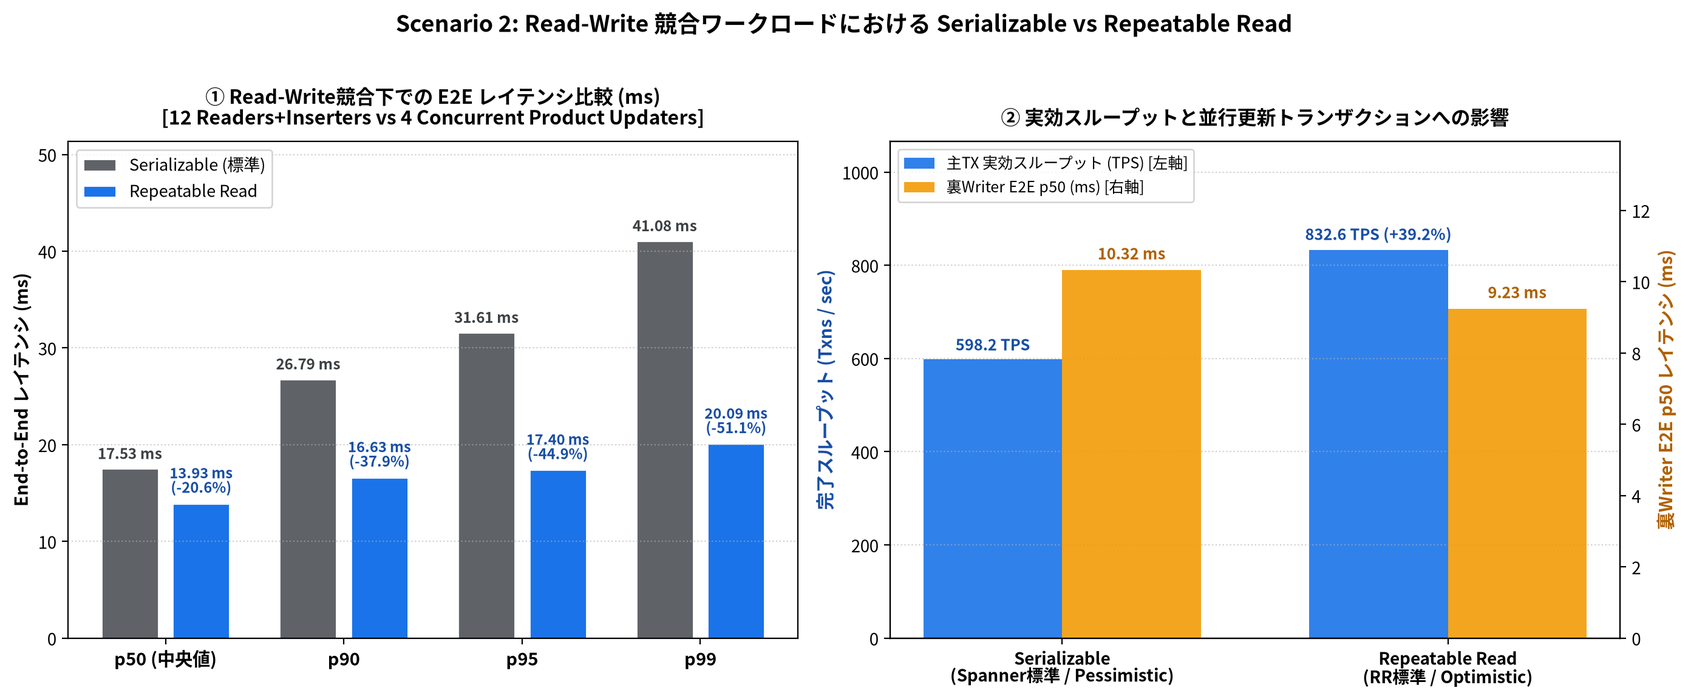
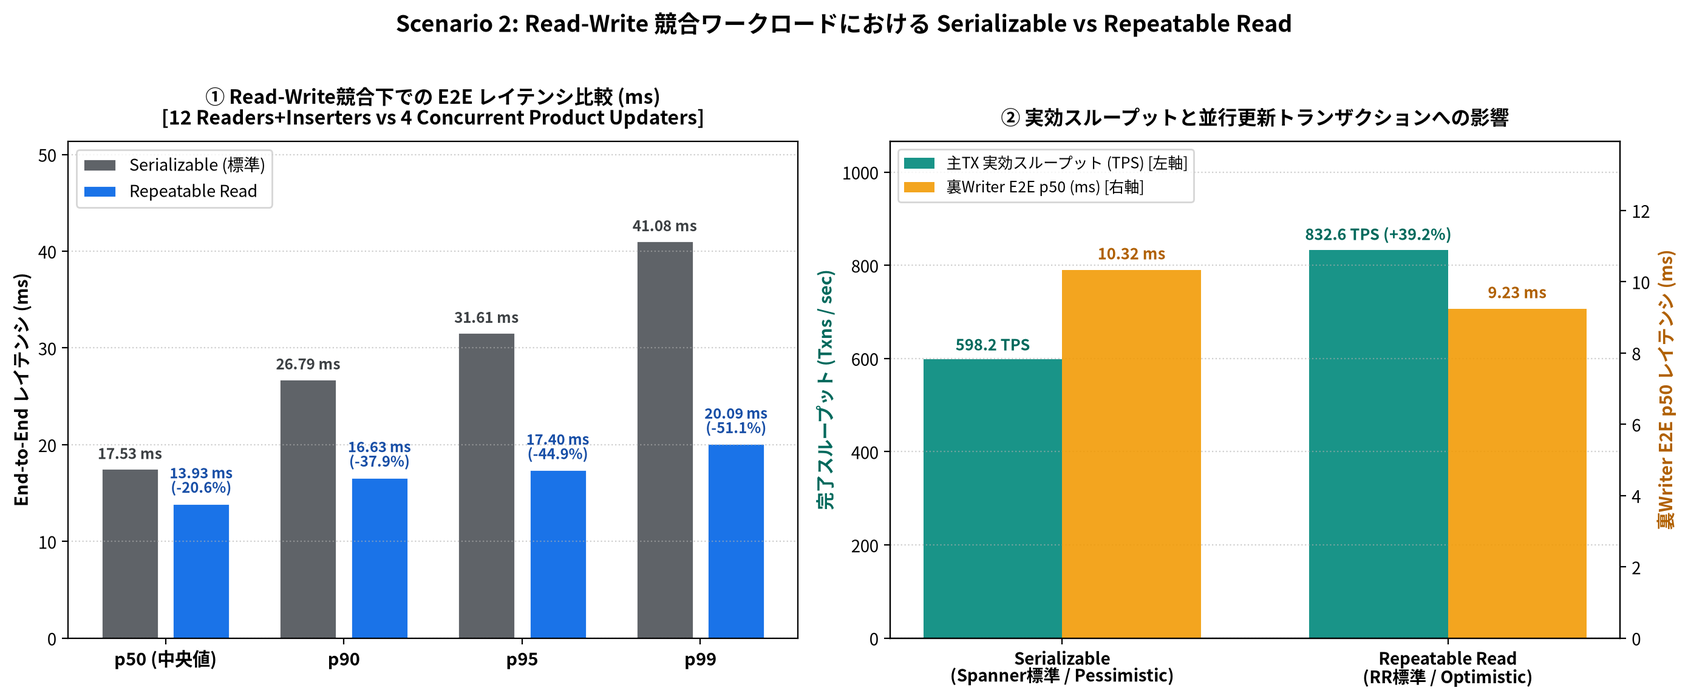
Refactor article structure and Scenario 2 chart colors for readability

diff --git a/articles/b112447edb6af8.md b/articles/b112447edb6af8.md
@@ -29,14 +29,13 @@ Spannerは長らく、Read-Writeトランザクションの分離レベルとし
 
 ## SerializableとRepeatable Readの仕組みの違い
 
-実測結果を見る前に、Spannerにおける`Serializable`と`Repeatable Read`がそれぞれどのようにトランザクションを制御しているのかを整理します。一般的なRDBと同様の概念もありますが、Spanner特有の挙動も存在するため、その差分を中心に解説します。
+実測結果を見る前に、Spannerにおける`Serializable`と`Repeatable Read`の制御方式の違いを整理します。
 
-最初に前提として押さえておきたいのが、Spannerでは**「分離レベル（`Serializable` / `Repeatable Read`）」と「並行性制御のロックモード（PCC / OCC）」は本来独立した設定軸である**という点です。SDK上も別々のオプションとして設定できるため、4通りの組み合わせを構成できます。
-ただし、デフォルトでは`Serializable`にPCC（悲観的並行性制御）、`Repeatable Read`にOCC（楽観的並行性制御）が紐づいています[2]。本稿では、まずそれぞれのデフォルト設定である**「`Serializable`（PCC）」と「`Repeatable Read`（OCC）」のセット**を比較対象として仕組みと特性を解説します（`Serializable + OCC`を選ばない理由については後述します）。
+Spannerのデフォルト設定では、`Serializable`は**PCC（`Pessimistic`）**、`Repeatable Read`は**OCC（`Optimistic`）**で動作します[2]。設定によりロックモードを個別に組み合わせることも可能ですが、本稿ではまずこの標準設定同士を比較します（標準以外の組み合わせについては後半で補足します）。
 
 ### カフェの利用で考えるPCCとOCC
 
-データベースの並行性制御には、大きく分けて**悲観的並行性制御（Pessimistic Concurrency Control、以下、PCC）**と**楽観的並行性制御（Optimistic Concurrency Control、以下、OCC）**の2つのアプローチがあります。Spannerでは、前述の通り標準の`Serializable`はPCC、`Repeatable Read`はOCCがデフォルトの動作として採用されています[2]。
+データベースの並行性制御には、**悲観的並行性制御（PCC / Pessimistic）**と**楽観的並行性制御（OCC / Optimistic）**の2つのアプローチがあります。
 
 この2つの違いを直感的にイメージするため、**一般的なカフェを利用する場面**を想定してみます。カフェでは、空いている時間帯は先に注文してから席を探しますが、混雑時には店員さんから「お席の確保を先にお願いします」とアナウンスされていることが多いと思います。
 
@@ -57,96 +56,76 @@ Spannerは長らく、Read-Writeトランザクションの分離レベルとし
 
 > Repeatable read isolation uses snapshot isolation under the hood. Within a read-write transaction, all reads see a consistent snapshot of the database taken at a single timestamp.
 
-**トランザクション内の通常の`SELECT`クエリーは、ロックを一切取得せず、最初の読み取り（またはクエリー）が実行された時点で確定する「過去の一断面（スナップショット）」を読むだけで完結するイメージです[5]。**
+**トランザクション内の通常の`SELECT`クエリーは、ロックを一切取得せず、最初の読み取りまたはクエリーが実行された時点のスナップショットを読むだけで完結するイメージです[5]。**
 
-標準の`Serializable`（PCC）と`Repeatable Read`（OCC）の具体的な動作の違いを以下の表とシーケンス図にまとめます。
+※厳密なロック・検証の粒度は「セル（行×列）およびスキャン範囲」ですが、以降の解説と図解では分かりやすく行単位で表現します[4]。
 
-| フェーズ | Serializable（Spanner標準 / PCC） | Repeatable Read（RR標準 / OCC） |
+| フェーズ | Serializable（標準 / Pessimistic） | Repeatable Read（標準 / Optimistic） |
 | :--- | :--- | :--- |
-| **1. 通常の`SELECT`実行時** | Paxosリーダー上で対象データに**共有ロック（`ReaderShared`）**を取得する。他トランザクションが書き込みロック（`WriterShared` / `Exclusive`など）を保持している場合は待機する。 | **ロックを取得しない**。スナップショットタイムスタンプのデータをそのまま読み取る。 |
-| **2. トランザクション実行中** | 読み取ったセル（行×列）・スキャン範囲の共有ロックをCommitまで保持し続ける（その間、同じ対象への他トランザクションの更新をブロックする）。 | 読み取りロックを持たないため、他トランザクションが同じセルや範囲を並行して更新しても互いに干渉しない。 |
-| **3. `Commit`実行時** | 保持していた全Readロックが有効か確認し、書き込み対象セルのロック（未読データなら`WriterShared`、既読データなら`Exclusive`への昇格）を取得してPaxos合意を行う。 | 書き込み対象（Write-Set）や`SELECT ... FOR UPDATE` / `LOCK_SCANNED_RANGES=exclusive`で指定した範囲、および制約確認等でDMLが内部的に参照するデータがスナップショット以降に変更されていないかを検証してCommitする。 |
+| **1. 通常の`SELECT`実行時** | Paxosリーダー上で対象データに**共有ロック（`ReaderShared`）**を取得する。他トランザクションが書き込みロック（`WriterShared` / `Exclusive`など）を保持中なら待機する。 | **ロックを取得しない**。スナップショット時点のデータをそのまま読み取る。 |
+| **2. トランザクション実行中** | 読み取ったセル・範囲の共有ロックをCommitまで保持し続ける（同じ対象への他トランザクションの更新をブロックする）。 | 読み取りロックを持たないため、他トランザクションが同じ対象を並行して更新しても互いに干渉しない。 |
+| **3. `Commit`実行時** | 全Readロックが有効か確認し、書き込み対象のロック（未読データなら`WriterShared`、既読データなら`Exclusive`へ昇格）を取得してPaxos合意を行う。 | 書き込み対象（Write-Set）や`SELECT ... FOR UPDATE` / `LOCK_SCANNED_RANGES=exclusive`指定範囲、制約確認等でDMLが内部参照するデータのみ変更有無を検証してCommitする[1][2]。 |
 
-まず、2つのトランザクション（`Tx1`と`Tx2`）が**同じ行Xを読み取って、同じ行Xを更新しようとした場合**（`1. SELECT ... FOR UPDATE` ➔ `2. UPDATE & Commit`）の動きの違いをシーケンス図で比較します。
+本記事の主役である**Read-Write競合**について、具体的な動作をシーケンス図で確認します。
 
-> **※補足**：Spannerの`Serializable`では通常の`SELECT`でもデータ整合性が保証されるため、普段の更新処理で`FOR UPDATE`を付ける必要はありません。ただし、`Serializable`で通常の`SELECT`を使うとRead時点では共有ロック（`ReaderShared`）となるため、`Tx1`と`Tx2`が同時に同じ行を読むと双方が共有ロックを保持したまま排他ロック（`Exclusive`）への昇格を待ち合うデッドロックが生じ、Wound-Waitアルゴリズムによって片方（新しいトランザクション）がAbortされます[4]。ここでは「Read時点から排他ロックを確保して後続を待たせるPCCの動き」と対比するため、高競合時のAbort抑制手段である`SELECT ... FOR UPDATE`を用いた例で図示しています。
+ここでは、「`Tx1`が商品マスタ（行A）を通常の`SELECT`で参照したあと、注文テーブル（別行B）に書き込む」最中に、「裏で`Tx2`が同じ商品マスタ（行A）を`UPDATE`する」場合の動きを比べます。
 
-#### ① Serializable（Spanner標準 / PCC：Read時からロックを確保して直列に進む）
+#### ① Serializable（標準 / Pessimistic：Read時からロックして他を待たせる）
 
-先に始まった`Tx1`が`1. SELECT ... FOR UPDATE`の時点からCommit完了まで排他ロックを保持し続けるため、後から同じ行Xを読もうとした`Tx2`は`Tx1`のCommitが終わるまで待たされます。直列に待たされる代わりに、後発の`Tx2`もAbortせずに最新の値を受け取ってそのままCommitまで完了します。
+`Tx1`が更新しない行Aであっても、通常の`SELECT`を実行した時点で共有ロック（`ReaderShared`）を取得し、`Commit`完了まで保持し続けます。そのため、裏から来た`Tx2`の更新はロック解放までブロックされます。
 
 ```mermaid
 sequenceDiagram
-    participant Tx1 as Tx1
+    participant Tx1 as Tx1 (行Aを参照 → 行Bを書込)
     participant Spanner as Spanner
-    participant Tx2 as Tx2
+    participant Tx2 as Tx2 (行AをUPDATE)
 
-    Tx1->>Spanner: 1. 行Xを SELECT ... FOR UPDATE
+    Tx1->>Spanner: 1. 行Aを SELECT
     activate Spanner
-    Spanner-->>Tx1: 読み取り結果 (🔒 ロック取得・保持開始)
+    Spanner-->>Tx1: 読み取り結果 (🔒 共有ロックを取得・保持)
 
-    Tx2->>Spanner: 1. 行Xを SELECT ... FOR UPDATE
-    activate Tx2
     rect rgb(255, 236, 236)
+        Tx2->>Spanner: 2. 行Aを UPDATE & Commit
+        activate Tx2
         Note over Spanner,Tx2: 🔒 Tx1がロック保持中のため待機 (Blocked)
-        Tx1->>Spanner: 2. 行Xを UPDATE & Commit
+        Tx1->>Spanner: 3. 行Bを書込 & Commit
         Spanner-->>Tx1: ✅ Commit 完了 (🔓 ロック解放)
     end
     deactivate Spanner
 
-    activate Spanner
-    Spanner-->>Tx2: 待機後に読み取り結果 (🔒 ロック取得・保持開始)
+    Spanner-->>Tx2: 待機後に Commit 完了 (遅延発生)
     deactivate Tx2
-    Tx2->>Spanner: 2. 行Xを UPDATE & Commit
-    Spanner-->>Tx2: ✅ Commit 完了 (🔓 ロック解放・Abortなし)
-    deactivate Spanner
 ```
 
-#### ② Repeatable Read（RR標準 / OCC：ロックせず並走し、Commit時に検証する）
+#### ② Repeatable Read（標準 / Optimistic：ロックせず読み、参照のみなら検証もしない）
 
-`1. SELECT ... FOR UPDATE`の時点ではロックを取得しないため、`Tx1`と`Tx2`は互いを待つことなく並行してスナップショットを読み取ります。その代わり、最後の`2. UPDATE & Commit`の瞬間に競合検証が行われ、同じ行Xを更新しようとした後発の`Tx2`は競合を検知してAbort（リトライ）となります。
+`Tx1`の`SELECT`はロックを取らず、さらに参照しただけの行Aは`Commit`時の変更検証対象にも含まれません（表のフェーズ3参照）。そのため、裏で`Tx2`が行Aを更新しても、**ロック待ちも`Commit`時のAbortも一切発生せず、双方が待たずに即座に完了**できます。
 
 ```mermaid
 sequenceDiagram
-    participant Tx1 as Tx1
+    participant Tx1 as Tx1 (行Aを参照 → 行Bを書込)
     participant Spanner as Spanner
-    participant Tx2 as Tx2
+    participant Tx2 as Tx2 (行AをUPDATE)
+
+    Tx1->>Spanner: 1. 行Aを SELECT
+    Spanner-->>Tx1: 読み取り結果 (🔓 ロックなし / Snapshot読取)
 
     rect rgb(232, 248, 240)
-        Tx1->>Spanner: 1. 行Xを SELECT ... FOR UPDATE
-        Spanner-->>Tx1: 読み取り結果 (🔓 ロックなし / Snapshot読取)
-        Tx2->>Spanner: 1. 行Xを SELECT ... FOR UPDATE
-        Spanner-->>Tx2: 読み取り結果 (🔓 待たされず並行してSnapshot読取)
+        Tx2->>Spanner: 2. 行Aを UPDATE & Commit
+        activate Tx2
+        Spanner-->>Tx2: ⚡ 待たされず即座に Commit 完了
+        deactivate Tx2
     end
 
-    Tx1->>Spanner: 2. 行Xを UPDATE & Commit
+    Tx1->>Spanner: 3. 行Bを書込 & Commit
     activate Spanner
-    Note over Tx1,Spanner: Commit時のみ検証・ロック (変更なし)
-    Spanner-->>Tx1: ✅ Commit 完了
+    Note over Tx1,Spanner: Write-Set (行B) のみ検証・書込
+    Spanner-->>Tx1: ✅ Abortせず即座に Commit 完了
     deactivate Spanner
-
-    rect rgb(255, 236, 236)
-        Tx2->>Spanner: 2. 行Xを UPDATE & Commit
-        activate Spanner
-        Note over Spanner,Tx2: Commit時の検証でTx1による行Xの更新を検知
-        Spanner-->>Tx2: ❌ Abort (リトライへ)
-        deactivate Spanner
-    end
 ```
 
-さらに、ここからがSpannerの`Repeatable Read`において特に重要なポイントです。
-
-上記のシーケンス図は「`Tx1`と`Tx2`が**同じ行Xを更新**しようとした場合（Write-Write競合）」の例ですが、実際のアプリケーションでは**「ある行（商品マスタや設定など）を通常の`SELECT`で参照した上で、別の行（注文データや履歴など）に書き込む」**という処理が多く存在します。
-
-* **標準の`Serializable`（PCC）の場合**：
-  自分が更新しない行であっても、通常の`SELECT`を実行した時点で共有ロック（`ReaderShared`）を取得してCommitまで保持し続けます。そのため、「行Xを`SELECT`して別行Yに書き込むトランザクション」が走っている最中に、裏で「行X自体を`UPDATE`するトランザクション」がやってくると、図①と同様に**Commit完了までロック解放待ち（Read-Write競合）**が発生します。
-* **`Repeatable Read`（OCC）の場合**：
-  通常の`SELECT`で読んだ対象に対しては**「Read時にロックを取らない」だけでなく、「Commit時にも競合検証を行わない」**という動作になります（Commit時に検証されるのは、実際に書き込む対象（Write-Set）、`SELECT ... FOR UPDATE`や`@{LOCK_SCANNED_RANGES=exclusive}`ヒントで明示的に指定した範囲、および一意インデックス・外部キー・`CHECK`制約などの整合性確認のためにDML/Mutationが内部的に参照するデータです[1][2]）。なお、Spannerのロックや変更検証の基本粒度は「行全体」ではなく「セル（行×列）およびスキャン範囲」です[4]。
-  つまり、`Repeatable Read`では、通常の`SELECT`で参照しただけのセルが裏で別トランザクションによって更新されても、**ロック待ちもCommit時のAbortも一切発生せず、両方のトランザクションが待たずに即座にCommitできる**ようになります。
-
-> **💡 なぜ「Serializable + OCC（`ReadLockMode: OPTIMISTIC`）」ではダメなのか？**
-> Spannerでは、分離レベルを`Serializable`にしたままロックモードだけを`OPTIMISTIC`（OCC）に切り替えることも可能です（なお、マルチリージョン構成でリーダーリージョンへの確認往復を避け、最寄りのレプリカから読み取りを返せる点は、`Serializable + OCC`だけでなくデフォルトでOCCを使う`Repeatable Read`でも同様に得られるOCC共通の利点です。ただし、同一トランザクション内でDMLによる書き込みを実行した後の読み取りはリーダーへルーティングされる場合があります[2]）。
-> しかし、`Serializable + OPTIMISTIC`の場合、Read時のロック取得は省略できるものの、Serializableの整合性を守るために**Commit時に「通常の`SELECT`で読んだ全範囲が他トランザクションに書き換えられていないか」を検証**します。そのため、参照しているデータが裏で頻繁に更新されるRead-Write競合環境では、Commit時の検証失敗によるAbortが多発してしまいます。「通常の`SELECT`をCommit時にも検証しない」という`Repeatable Read`（スナップショット分離）の性質があって初めて、OCCと組み合わせてRead-Write競合を根本から回避できます。
+このように、`Repeatable Read`（OCC）では**「Read時にロックを取らない」だけでなく、「通常の`SELECT`に対してはCommit時にも他トランザクションによる変更の有無を検証しない」**という点が最大のポイントです。
+その結果、参照しただけのマスタ行が裏で頻繁に更新されていても、互いに干渉することなく並列に処理を進められます。
 
 ---
 
@@ -185,16 +164,16 @@ CREATE TABLE Orders (
 ) PRIMARY KEY (order_id);
 ```
 
-Go SDKでは、`ReadWriteTransactionWithOptions`に`TransactionOptions`を渡すことで、同じ`spanner.Client`を使いながらトランザクションごとに分離レベルを切り替えられます（なお、`IsolationLevel`のみを指定して`ReadLockMode`を省略した場合も、`Serializable`では`PESSIMISTIC`、`Repeatable Read`では`OPTIMISTIC`がそれぞれのデフォルトとして自動選択されます。また、`spanner.ClientConfig{TransactionOptions: ...}`でクライアント全体のデフォルト分離レベルを指定することも可能です）。
+Go SDKでは、`ReadWriteTransactionWithOptions`に`TransactionOptions`を渡すことで、同じ`spanner.Client`を使いながらトランザクションごとに分離レベルを切り替えられます。
 
 ```go
-// Serializable（Spanner標準：PESSIMISTIC がデフォルト）で実行する場合
+// Serializable（標準設定：PESSIMISTIC がデフォルト）で実行する場合
 optsSerializable := spanner.TransactionOptions{
     IsolationLevel: sppb.TransactionOptions_SERIALIZABLE,
     ReadLockMode:   sppb.TransactionOptions_ReadWrite_PESSIMISTIC,
 }
 
-// Repeatable Read（RR標準：OPTIMISTIC がデフォルト）で実行する場合
+// Repeatable Read（標準設定：OPTIMISTIC がデフォルト）で実行する場合
 optsRepeatableRead := spanner.TransactionOptions{
     IsolationLevel: sppb.TransactionOptions_REPEATABLE_READ,
     ReadLockMode:   sppb.TransactionOptions_ReadWrite_OPTIMISTIC,
@@ -206,9 +185,11 @@ _, err := client.ReadWriteTransactionWithOptions(ctx, func(ctx context.Context, 
 }, optsRepeatableRead)
 ```
 
+なお、`ReadLockMode`を省略した場合もそれぞれ標準のロックモードが自動選択されるほか、`spanner.ClientConfig`でクライアント全体のデフォルト設定を指定することもできます。
+
 ### 実行
 
-以下の3つのシナリオで、`Serializable`と`Repeatable Read`のEnd-to-End（以下、E2E）レイテンシ、各フェーズの内訳、Abort発生率、および`SPANNER_SYS`の内部統計を比較しました。
+以下の3つのシナリオで、`Serializable`と`Repeatable Read`のEnd-to-End（以下、E2E）レイテンシ、各フェーズの内訳、およびAbort発生率を比較しました。あわせて、Spannerの組み込み統計ビューである`SPANNER_SYS`を用いてサーバー側の内部統計も確認しています。
 
 1. **Scenario 1（競合なし・`c=1`）**：他のトランザクションが一切動いていない状態で、1並列で500トランザクションを直列実行し、純粋なオーバーヘッドの差を測定する。
 2. **Scenario 2（Read-Write競合・`c=12 + 4`）**：共通の`Products`テーブルに対して、裏で更新トランザクションが動く中で参照＋`Orders`への追記を行う。
@@ -220,27 +201,28 @@ _, err := client.ReadWriteTransactionWithOptions(ctx, func(ctx context.Context, 
 
 まずは競合がまったくない状態（`Concurrency = 1`、各500回実行）での比較です。ここでは以下の2パターンを計測しました。
 
-* **Scenario 1A（複数Read＋Write）**：`Products`の範囲スキャン20行（`InlineBegin`によるトランザクション開始を含む）＋主キー指定の1行Readを実行したあと、`Orders`に1行`INSERT`して`Commit`する。
+* **Scenario 1A（複数Read＋Write）**：`Products`の範囲スキャン20行（最初の読み取りと同時にトランザクションを開始）＋主キー指定の1行Readを実行したあと、`Orders`に1行`INSERT`して`Commit`する。
 * **Scenario 1B（Read-Writeトランザクション内でReadのみ）**：フレームワークやORマッパー（Springの`@Transactional`など）でRead-Writeトランザクションを開始したものの、条件判定の結果DMLを実行せずに2回の`SELECT`だけで`Commit`する。
 
 ![Scenario 1: 競合なし環境におけるフェーズ別レイテンシ比較](/images/rr_s1_no_contention_breakdown.png)
 
-| シナリオ | 分離レベル | E2E p50 | E2E p90 | E2E p99 | Read1 p50 *(Scan+Begin)* | Read2 p50 *(Point)* | DML p50 *(Insert)* | Commit p50 | `SPANNER_SYS.TXN_STATS_TOP_MINUTE` 記録 |
-| :--- | :--- | :---: | :---: | :---: | :---: | :---: | :---: | :---: | :--- |
-| **Scenario 1A**<br>*(2 Reads + 1 Insert)* | **Serializable** | 14.32 ms | 15.11 ms | 22.13 ms | 2.43 ms | 2.73 ms | 4.59 ms | 4.46 ms | `avg_total`: 12.99 ms (`avg_commit`: 2.07 ms) |
-| | **Repeatable Read** | **13.71 ms**<br>(-4.2%) | **14.77 ms**<br>(-2.3%) | **18.37 ms**<br>(-17.0%) | **2.38 ms** | 2.86 ms | **4.36 ms** | **4.00 ms**<br>(-10.3%) | `avg_total`: **12.29 ms** (`avg_commit`: 2.23 ms) |
-| **Scenario 1B**<br>*(2 Reads + Commitのみ)* | **Serializable** | 9.47 ms | 11.06 ms | 11.96 ms | 2.86 ms | 3.24 ms | — | 3.39 ms | 500件記録 (`avg_commit`: 0.83 ms) |
-| | **Repeatable Read** | **7.76 ms**<br>(-18.0%) | **9.00 ms**<br>(-18.6%) | **11.57 ms**<br>(-3.3%) | **2.69 ms** | **3.10 ms** | — | **1.82 ms**<br>(-46.4%) | **記録なし**（上位統計の対象外） |
+| シナリオ | 分離レベル | E2E p50 | E2E p90 | E2E p99 | Commit p50 | サーバー側統計 (`SPANNER_SYS.TXN_STATS_TOP_MINUTE`) |
+| :--- | :--- | :---: | :---: | :---: | :---: | :--- |
+| **Scenario 1A**<br>*(2 Reads + 1 Insert)* | **Serializable** | 14.32 ms | 15.11 ms | 22.13 ms | 4.46 ms | `avg_total`: 12.99 ms (`avg_commit`: 2.07 ms) |
+| | **Repeatable Read** | **13.71 ms**<br>(-4.2%) | **14.77 ms**<br>(-2.3%) | **18.37 ms**<br>(-17.0%) | **4.00 ms**<br>(-10.3%) | `avg_total`: **12.29 ms** (`avg_commit`: 2.23 ms) |
+| **Scenario 1B**<br>*(2 Reads + Commitのみ)* | **Serializable** | 9.47 ms | 11.06 ms | 11.96 ms | 3.39 ms | 500件記録 (`avg_commit`: 0.83 ms) |
+| | **Repeatable Read** | **7.76 ms**<br>(-18.0%) | **9.00 ms**<br>(-18.6%) | **11.57 ms**<br>(-3.3%) | **1.82 ms**<br>(-46.4%) | **記録なし**（上位統計の対象外） |
 
 #### 結果の考察
 
 競合が一切ない状態での結果を比較すると、DMLを伴う場合と伴わない場合で対照的な傾向が見られます。
 
-1つ目は、**Scenario 1A（書き込みあり）では競合がない限りp50ベースでの差がごくわずかである点**です。今回の計測ではクライアント側のCommit p50が`4.46 ms`から`4.00 ms`（-10.3%）、E2E p99が`22.13 ms`から`18.37 ms`（-17.0%）とやや改善していますが、同じ計測区間で取得したサーバー側統計（`SPANNER_SYS.TXN_STATS_TOP_MINUTE`）の`avg_commit_latency`を見ると`2.07 ms`対`2.23 ms`とほぼ同等であり、単発試行におけるばらつきの範囲にとどまります。つまり、競合が存在せず実際に書き込みが発生するトランザクションでは、分離レベルの違いだけで劇的な差は出ません。
+1つ目は、**Scenario 1A（書き込みあり）では競合がない限りp50ベースでの差がごくわずかである点**です。クライアント側のCommit p50やE2E p99はやや改善しているものの、サーバー側の平均Commit時間（`avg_commit`）は`2.07 ms`対`2.23 ms`とほぼ同等で、単発計測におけるばらつきの範囲にとどまります。つまり、競合がなく実際に書き込みを行うトランザクションでは、分離レベルの違いだけで劇的な差は出ません。
 
 2つ目は、対照的に**Scenario 1B（更新なしでCommitするRead-Writeトランザクション）において、Commit RPCが`3.39 ms`から`1.82 ms`（-46.4%）へとほぼ半減し、E2E p50が18.0%短縮されている点**です。
-本来、読み取りしか行わない処理には`ReadOnlyTransaction`を使うのがSpannerのセオリーですが、既存のRDBから移行したアプリケーションや共通ミドルウェアの都合で、「とりあえずRead-Writeトランザクションを開いて`SELECT`し、更新対象がなければそのままCommitする」というコードになっているケースは少なくありません。
-`Serializable`では、`SELECT`した時点でPaxosリーダー上に共有ロック（`ReaderShared`）が確保されるため、書き込みがゼロであってもCommit時にリーダー側でロック解放処理が走ります（実際に`SPANNER_SYS.TXN_STATS_TOP_MINUTE`にも500件のトランザクションが記録されます）。一方、`Repeatable Read`では読み取りがスナップショットで完結してロックもCommit時の整合性検証状態も保持しないため、書き込み（および`FOR UPDATE`検証）を伴わないCommitはデータプレーン側の負荷を伴わずに高速に完了でき、リソース消費上位を集計する`SPANNER_SYS.TXN_STATS_TOP_MINUTE`にも現れませんでした[2]。なお、このように書き込みを実行せずCommitするRead-Writeトランザクションでは、読んだデータがCommit時点まで変更されていない保証はない点に留意が必要です[5]。
+本来、読み取りしか行わない処理には`ReadOnlyTransaction`を使うのがSpannerのセオリーですが、既存のRDBから移行したアプリや共通ミドルウェアの都合で「とりあえずRead-Writeトランザクションを開いて`SELECT`し、更新対象がなければそのままCommitする」というコードになっているケースは少なくありません。
+
+`Serializable`では、`SELECT`した時点でPaxosリーダー上に共有ロック（`ReaderShared`）が確保されるため、書き込みがゼロでもCommit時にリーダー側でロック解放処理が走ります。一方、`Repeatable Read`ではロックもCommit時の整合性検証状態も保持しないため、書き込み（および`FOR UPDATE`検証）を伴わないCommitはデータプレーン側の重い処理を伴わずに高速に完了でき、リソース消費上位を集計する`SPANNER_SYS.TXN_STATS_TOP_MINUTE`にも記録されませんでした[2]。なお、このように書き込みを実行せずCommitするRead-Writeトランザクションでは、読んだデータがCommit時点まで変更されていない保証はない点には留意が必要です[5]。
 
 ---
 
@@ -257,21 +239,21 @@ _, err := client.ReadWriteTransactionWithOptions(ctx, func(ctx context.Context, 
 
 ![Scenario 2: Read-Write 競合ワークロードにおける Repeatable Read の効果](/images/rr_s2_rw_contention_comparison.png)
 
-| 分離レベル | E2E p50 | E2E p90 | E2E p95 | E2E p99 | 主TX Abort率 | 主TX スループット | 裏Writer E2E p50 | 裏Writer サーバー側Commit (`SPANNER_SYS`) |
-| :--- | :---: | :---: | :---: | :---: | :---: | :---: | :---: | :---: |
-| **Serializable** *(標準)* | 17.53 ms | 26.79 ms | 31.61 ms | 41.08 ms | 0.17% (1/601) | 598.2 TPS | 10.32 ms | **6.16 ms** *(ロック待ち発生)* |
-| **Repeatable Read** | **13.93 ms**<br>(-20.6%) | **16.63 ms**<br>(-37.9%) | **17.40 ms**<br>(-44.9%) | **20.09 ms**<br>(-51.1%) | **0.00%** (0/600) | **832.6 TPS**<br>(+39.2%) | **9.23 ms** | **2.15 ms**<br>(-65.1%, *ブロックなし*) |
+| 分離レベル | E2E p50 | E2E p99 | 主TX Abort率 | 主TX スループット | 裏Writer E2E p50 | 裏Writer サーバー側Commit (`SPANNER_SYS`) |
+| :--- | :---: | :---: | :---: | :---: | :---: | :---: |
+| **Serializable** *(標準)* | 17.53 ms | 41.08 ms | 0.17% (1/601) | 598.2 TPS | 10.32 ms | **6.16 ms** *(ロック待ち発生)* |
+| **Repeatable Read** | **13.93 ms**<br>(-20.6%) | **20.09 ms**<br>(-51.1%) | **0.00%** (0/600) | **832.6 TPS**<br>(+39.2%) | **9.23 ms** | **2.15 ms**<br>(-65.1%, *ブロックなし*) |
 
 #### 結果の考察
 
 このシナリオでは、`Repeatable Read`の効果が顕著に現れています。
 
-* **主トランザクションのE2Eレイテンシ**：中央値（p50）で`17.53 ms` → **`13.93 ms`（-20.6%）**、p95で`31.61 ms` → **`17.40 ms`（-44.9%）**、そして上位1%のテールレイテンシ（p99）では`41.08 ms` → **`20.09 ms`（-51.1%）と半分以下**に短縮されました。実効スループットも`598.2 TPS`から**`832.6 TPS`（+39.2%）**へ向上しています。
-* **裏で動く更新トランザクションへの好影響**：見逃せないポイントとして、主トランザクションだけでなく、**裏で`Products`を更新しているバックグラウンドWriterのサーバー側平均Commitレイテンシ（`SPANNER_SYS.TXN_STATS_TOP_MINUTE`の`avg_commit_latency`）も、`6.16 ms`から`2.15 ms`（-65.1%）へと約3分の1に短縮**されています。
+* **主トランザクションのE2Eレイテンシ**：中央値（p50）で`17.53 ms` → **`13.93 ms`（-20.6%）**、p90で`26.79 ms` → **`16.63 ms`（-37.9%）**、p95で`31.61 ms` → **`17.40 ms`（-44.9%）**、そして上位1%のテールレイテンシ（p99）では`41.08 ms` → **`20.09 ms`（-51.1%）と半分以下**に短縮されました。実効スループットも`598.2 TPS`から**`832.6 TPS`（+39.2%）**へ向上しています。
+* **裏で動く更新トランザクションへの好影響**：見逃せないポイントとして、主トランザクションだけでなく、**裏で`Products`を更新しているバックグラウンドWriterのサーバー側平均Commitレイテンシも、`6.16 ms`から`2.15 ms`（-65.1%）へと約3分の1に短縮**されています。
 
 この差は、`Products`テーブルに対する共有ロック（`ReaderShared`）の有無から生じています。
 
-`Serializable`（PCC）では、12並列の主トランザクションが`Products`の20行をスキャンするたびにそれらの行に`ReaderShared`ロックを取得し、後続の`Orders`への`INSERT`と`Commit`が完了するまで保持し続けます。そのため、バックグラウンドWriterが`Products`の`sales_count`を`UPDATE`して排他ロック（`Exclusive`）を取得しようとすると、主トランザクションのReadロック解放を待つことになり、裏Writer側のCommitが平均`6.16 ms`まで遅延します。同時に、裏Writerがロックを保持している行を主トランザクションが読み取ろうとした際にもロック待ちが発生するため、主トランザクション側のp90〜p99が大きく伸びています。
+`Serializable`（PCC）では、12並列の主トランザクションが`Products`の20行をスキャンするたびに`ReaderShared`ロックを取得し、`Orders`への`INSERT`と`Commit`が完了するまで保持し続けます。そのため、裏Writerが`Products.sales_count`を`UPDATE`しようとするとReadロックの解放待ちが発生し、同時に主トランザクション側も裏Writerの更新ロックに待たされるため、双方のテールレイテンシが大きく伸びています。
 
 実際に測定中の`SPANNER_SYS.LOCK_STATS_TOP_MINUTE`を確認すると、`Serializable`の実行中には以下のようなロック待ちが記録されていました。
 
@@ -284,11 +266,14 @@ _, err := client.ReadWriteTransactionWithOptions(ctx, func(ctx context.Context, 
 --   Exclusive:Products.sales_count    (transaction_tag: s2_bg_writer_s_pess)
 ```
 
-一方、`Repeatable Read`（OCC）では、主トランザクションによる`Products`の読み取りはスナップショットを読むだけでロックを一切取得しません。そのため、12並列の主トランザクションは競合なしの時（Scenario 1Aのp50 `13.71 ms`、p99 `18.37 ms`）とほぼ変わらないレイテンシ（p50 `13.93 ms`、p99 `20.09 ms`）で完了し、裏Writer側もReadロックにブロックされることなく`2.15 ms`でCommitを完了できています。`SPANNER_SYS.LOCK_STATS_TOP_MINUTE`にも、`Repeatable Read`の主トランザクション（`s2_main_rr_opt`）によるロック待ちは1件も記録されませんでした。
+一方、`Repeatable Read`（OCC）では、主トランザクションによる`Products`の読み取りはスナップショットを読むだけでロックを一切取得しません。そのため、主トランザクションは競合なしの時とほぼ変わらないレイテンシで完了し、裏Writer側もReadロックにブロックされずに処理を終えられています。`SPANNER_SYS.LOCK_STATS_TOP_MINUTE`にも、`Repeatable Read`の主トランザクション（`s2_main_rr_opt`）によるロック待ちは1件も記録されませんでした。
 
-> **💡 `ReadOnlyTransaction`に分離する定番設計との違い**
-> Spannerでは、読み取りのみの操作や書き込み整合性に影響しない事前参照を切り出せる場合は、ロックを取らない`ReadOnlyTransaction`（またはSingle Read）を使うのが基本原則です[5]。もちろん分離できるならその原則に従うのが王道ですが、実際の開発では1つの業務処理の中で2種類のトランザクションを発行して使い分ける実装は複雑になりやすく、単一スナップショット上での一貫した読み取りやRead-Your-Writesを保ちにくくなります。さらに、参照を別トランザクションへ切り出そうとすると、**RWトランザクション内のクエリーでマスタテーブルと分散JOINできるSpannerの強みを捨てて、アプリケーション側でデータを突合しなければならなくなります**。
-> `Repeatable Read`を使えば、トランザクション境界を不自然に分割したりJOINを剥がしたりすることなく、1トランザクションの原子性やRead-Your-Writes（自分の書き込みを読める性質）を保ったままマスタ参照のロック競合だけを外せます。また、**「1つのトランザクション内で、参照するだけのマスタ類は通常の`SELECT`（ロックなし・検証なし）にしつつ、整合性を守りたい在庫1行だけは`SELECT ... FOR UPDATE`（Commit時検証）にする」**という混在パターンを柔軟に書けるのも独自の強みです。
+#### `ReadOnlyTransaction`に分離する設計との違い
+
+Spannerでは、読み取りのみの操作や書き込み整合性に影響しない事前参照を切り出せる場合は、ロックを取らない`ReadOnlyTransaction`（またはSingle Read）を使うのが基本原則です[5]。もちろん分離できるならその原則に従うのが王道ですが、`Repeatable Read`を使うことには実務上大きな強みがあります。
+
+* **トランザクションの分断とJOIN放棄を避けられる**：1つの業務処理の中で2種類のトランザクションを使い分ける実装は複雑になりやすく、単一スナップショットでの読み取りやRead-Your-Writes（自分の書き込みを読める性質）も保ちにくくなります。さらに、参照を別トランザクションへ切り出すと、**RWトランザクション内のクエリーでマスタテーブルと分散JOINできるSpannerの強みを捨てて、アプリ側でデータを突合する実装を強いられます**。`Repeatable Read`なら1本のRWトランザクションのままマスタ側のロック競合だけを外せます。
+* **同一トランザクション内で検証レベルを混在できる**：「参照するだけのマスタ類は通常の`SELECT`（ロックなし・検証なし）にしつつ、整合性を守りたい在庫1行だけは`SELECT ... FOR UPDATE`（Commit時検証）にする」といった柔軟な使い分けが可能です。
 
 ---
 
@@ -309,7 +294,7 @@ SET stock = stock - 1, sales_count = sales_count + 1, updated_at = PENDING_COMMI
 WHERE category_id = 2 AND product_id = @pid;
 ```
 
-> **※補足**：`Repeatable Read`では、実際に書き込む対象（今回でいえば`Products`の`stock`と`sales_count`）がスナップショット時点から変更されていないかは`SELECT ... FOR UPDATE`を付けなくてもCommit時に自動検証（First-Committer-Wins）されるため、同一セルのRead-Modify-Writeであれば通常の`SELECT`でもロストアップデート自体は防げます[1][3]。一方で、**読んだ値とは別の行・別テーブルを更新する処理（Write Skewが起きるケース）や、読み取り範囲への新規行追加・条件分岐の前提を保証したい場合**には`SELECT ... FOR UPDATE`が必須になります。また今回は、一般的なRDBの在庫引き落とし処理で標準的に使われる`SELECT ... FOR UPDATE`の記述のまま高Write-Write競合時の挙動を比較するため、このSQLで検証しています。
+> **※補足**：`Repeatable Read`では実際に書き込む対象（Write-Set）がスナップショット以降に変更されていないかは自動検証（First-Committer-Wins）されるため、同一セルを更新するだけなら通常の`SELECT`でもロストアップデート自体は防げます[1][3]。一方で、**読んだ値をもとに別行・別テーブルを更新するケース（Write Skew）や、条件分岐・新規行追加の前提を保証したいケース**では`SELECT ... FOR UPDATE`が必須となります。今回は、一般的なRDBの在庫引き落とし処理で標準的な`SELECT ... FOR UPDATE`を用いた場合の高競合時の挙動を比較しています。
 
 測定結果は以下の通りです。
 
@@ -327,12 +312,83 @@ Scenario 2とは打って変わって、**p90以降のレイテンシ、Abort率
 * 競合にぶつからなかった回（中央値p50）だけは`Repeatable Read`の方がわずかに速い（`11.60 ms` vs `12.98 ms`）ものの、`Repeatable Read`では**480回の試行のうち80回（16.67%）でCommit時のAbort（やり直し）が発生**し、リトライのバックオフ時間が加算された結果、**p99レイテンシは`34.02 ms`から`65.68 ms`へと約1.9倍に悪化**しています。
 * 一方、標準の`Serializable`では**400トランザクション中Abortは0回（0.00%）**であり、スループットも`544.6 TPS`と高速に処理されています。
 
-この逆転が起きる理由は、`SELECT ... FOR UPDATE`に対するPCC（悲観的制御）とOCC（楽観的制御）の振る舞いの違いにあります。
+この逆転が起きる理由は、同じ行（行X）を読み取って更新するトランザクション（`Tx1`と`Tx2`）が同時に走った際の、PCCとOCCの振る舞いの違いにあります。
 
-* `Repeatable Read`（OCC）では、`SELECT ... FOR UPDATE`を実行した時点ではロックを取得せず、スナップショットから値を読み取って後続の`UPDATE`を実行し、最後の`Commit`のタイミングで「スナップショット時点から対象行が他のトランザクションによって更新されていないか」を検証します（First-Committer-Wins）[2]。そのため、同一行に対して複数のトランザクションが同時に走ると、先行するトランザクションがCommitした瞬間に後続トランザクションはCommit時の検証で敗北してAbortとなり、最初からトランザクションをやり直すコストが発生します。
-* 一方、`Serializable`（PCC）では、最初の`SELECT ... FOR UPDATE`の時点で対象行の排他ロックを取得します。同じ行を更新しようとする後続トランザクションは、先行トランザクションがCommitしてロックを解放するまでその場で待機し、最新の値を受け取ってから後続の`UPDATE`へ進むため、Commit段階での手戻り（Abort）が発生せず効率よく直列処理されます。
+##### ① Serializable（標準 / Pessimistic：Read時からロックを確保して直列に進む）
 
-なお、`Repeatable Read`でロックモードを`PESSIMISTIC`に変更すると、`FOR UPDATE`クエリーやDML実行時に排他ロックを取得して後続の競合更新を直列化できます（トランザクションの最初の文が`SELECT ... FOR UPDATE`であれば、ロック取得後にスナップショットタイムスタンプが確定するため、ロック待ちに起因するAbortは抑えられます）[2]。ただし、`FOR UPDATE`より前に別の`SELECT`を実行してスナップショットが既に確定している場合は、ロック取得前に対象データが変更されているとCommit時の検証でAbortが発生し得るほか、通常の読み取りを最寄りレプリカから返せなくなるなどのトレードオフもあります[2]。
+最初の`SELECT ... FOR UPDATE`の時点で対象行の排他ロックを取得するため、後続トランザクション（`Tx2`）は`Tx1`のCommit完了までその場で待機し、最新の値を受け取ってから後続の`UPDATE`へ進みます。そのため、Commit段階でのAbortが発生しません。
+
+```mermaid
+sequenceDiagram
+    participant Tx1 as Tx1
+    participant Spanner as Spanner
+    participant Tx2 as Tx2
+
+    Tx1->>Spanner: 1. 行Xを SELECT ... FOR UPDATE
+    activate Spanner
+    Spanner-->>Tx1: 読み取り結果 (🔒 ロック取得・保持開始)
+
+    Tx2->>Spanner: 1. 行Xを SELECT ... FOR UPDATE
+    activate Tx2
+    rect rgb(255, 236, 236)
+        Note over Spanner,Tx2: 🔒 Tx1がロック保持中のため待機 (Blocked)
+        Tx1->>Spanner: 2. 行Xを UPDATE & Commit
+        Spanner-->>Tx1: ✅ Commit 完了 (🔓 ロック解放)
+    end
+    deactivate Spanner
+
+    activate Spanner
+    Spanner-->>Tx2: 待機後に読み取り結果 (🔒 ロック取得・保持開始)
+    deactivate Tx2
+    Tx2->>Spanner: 2. 行Xを UPDATE & Commit
+    Spanner-->>Tx2: ✅ Commit 完了 (🔓 ロック解放・Abortなし)
+    deactivate Spanner
+```
+
+##### ② Repeatable Read（標準 / Optimistic：ロックせず並走し、Commit時に検証する）
+
+`SELECT ... FOR UPDATE`を実行した時点ではロックを取得せず、スナップショットから値を読み取って並走します。最後の`Commit`のタイミングで競合検証が行われるため（First-Committer-Wins）[2]、先行の`Tx1`がCommitした瞬間に後続の`Tx2`は検証で敗北してAbortとなり、最初からトランザクションをやり直すコストが発生します。
+
+```mermaid
+sequenceDiagram
+    participant Tx1 as Tx1
+    participant Spanner as Spanner
+    participant Tx2 as Tx2
+
+    rect rgb(232, 248, 240)
+        Tx1->>Spanner: 1. 行Xを SELECT ... FOR UPDATE
+        Spanner-->>Tx1: 読み取り結果 (🔓 ロックなし / Snapshot読取)
+        Tx2->>Spanner: 1. 行Xを SELECT ... FOR UPDATE
+        Spanner-->>Tx2: 読み取り結果 (🔓 待たされず並行してSnapshot読取)
+    end
+
+    Tx1->>Spanner: 2. 行Xを UPDATE & Commit
+    activate Spanner
+    Note over Tx1,Spanner: Commit時のみ検証・ロック (変更なし)
+    Spanner-->>Tx1: ✅ Commit 完了
+    deactivate Spanner
+
+    rect rgb(255, 236, 236)
+        Tx2->>Spanner: 2. 行Xを UPDATE & Commit
+        activate Spanner
+        Note over Spanner,Tx2: Commit時の検証でTx1による行Xの更新を検知
+        Spanner-->>Tx2: ❌ Abort (リトライへ)
+        deactivate Spanner
+    end
+```
+
+※なお、`Serializable`（PCC）側でこの例に`FOR UPDATE`を付けているのは、通常の`SELECT`だと両者が共有ロックを保持したまま排他ロックへの昇格を待ち合うデッドロックが生じ、Wound-Waitアルゴリズムによって片方（新しいトランザクション）がAbortされるためです[4]。
+
+---
+
+### 補足：標準以外のロックモード組み合わせについて
+
+ここまで比較した標準設定以外に、Spannerでは分離レベルとロックモード（`PESSIMISTIC` / `OPTIMISTIC`）を入れ替えた組み合わせも設定可能です。今回メインの比較から外した理由はそれぞれ以下の通りです。
+
+* **`Serializable + OPTIMISTIC`（OCC）を選ばない理由**：
+  Read時のロック取得は省略できるものの、Serializableの整合性を守るため**Commit時に「通常の`SELECT`で読んだ全範囲が他トランザクションに書き換えられていないか」を検証**します。そのため、Read-Write競合環境ではCommit時の検証失敗によるAbortが多発します。なお、マルチリージョン構成で最寄りレプリカから読み取りを返せる利点は、同じくOCCを使う`Repeatable Read`でも同様に得られます（ただしDML書込後の読み取りはリーダーへ向く場合があります）[2]。
+* **`Repeatable Read + PESSIMISTIC`（PCC）の挙動**：
+  `FOR UPDATE`クエリーやDML実行時に排他ロックを取得して後続の競合更新を直列化できます。トランザクションの最初の文が`SELECT ... FOR UPDATE`であれば、ロック取得後にスナップショットタイムスタンプが確定するため、ロック待ちに起因するAbortは抑えられます[2]。ただし、先行する別クエリーでスナップショットが既に確定している場合はCommit時の検証でAbortが発生し得るほか、通常の読み取りを最寄りレプリカから返せなくなるトレードオフもあります[2]。
 
 ---
 
@@ -346,14 +402,24 @@ Scenario 2とは打って変わって、**p90以降のレイテンシ、Abort率
 | **2. Read-Writeトランザクション内で結果的に更新を行わずCommitする処理**<br>*(他RDBからの移行・ORマッパー利用時など)* | **Repeatable Read** | 共有ロックの確保・解放が不要になるため、Commit RPCの所要時間がほぼ半減する（**Commit p50が-46.4%短縮、E2E p50が-18.0%短縮**）。 |
 | **3. 少数のホットな同一行を`FOR UPDATE`で同時に更新し合う処理**<br>*(高Write-Write競合)* | **Serializable**<br>*(Spanner標準)* | 先に排他ロックを取得して直列化する方が、標準設定（OCC）のCommit時検証失敗によるAbort＆リトライ（無駄足）を防げる（**Abort率 0% vs 16.67%、p99が約半分**）。 |
 
+### 実務での使い分け指針
+
 最後に、Spannerの公式ドキュメント[1]で示されている推奨アプローチに沿って、実務での選択指針を整理します。
 
-* **他のRDB（MySQL / PostgreSQLなど）から移行するアプリケーションの場合**：
-  移行元のデータベースのデフォルト分離レベルに近い挙動となるため、`Repeatable Read`をベースとして構成することが推奨されています。既存の更新ロジックやORマッパーのトランザクション境界を大きく作り直すことなく、Spannerの共有ロックに起因する意図しないロック待ちを回避できます。
-* **Spanner上で新規に構築するアプリケーション（および既存のSpannerワークロード）の場合**：
-  基本はあくまで**デフォルトの`Serializable`から始める（Start with Serializable）**のが安全です。`Serializable`であれば、高並行時にのみ発生するような複雑なタイミングバグやWrite Skewなどのデータ不整合を、アプリケーション側で意識することなくデータベース側で防ぐことができます（既存のSpannerアプリケーションを無差別に`Repeatable Read`へ一括変更すると、これまで`Serializable`によって守られていたWrite Skewが顕在化する恐れがあるため推奨されません）。
-  その上で、**「特定のトランザクションで多くの行を参照・JOINしながら書き込みを行っており、他の更新処理とのRead-Write競合によってレイテンシやAbort率が課題になっている箇所（`SPANNER_SYS.LOCK_STATS_TOP_MINUTE`で`ReaderShared`と`WriterShared` / `Exclusive`のロック待ちが観測されるトランザクションなど）」に対して、トランザクション単位でピンポイントに`Repeatable Read`へオプトインする**という使い方が最も合理的です。これまでロック回避のために泣く泣く`ReadOnlyTransaction`へ分離して分散JOINを諦めていた箇所でも、自然な1トランザクションのまま高速化できます。
-  なお、ECサイトの例に当てはめると、「参照した商品情報の転記や集計値の記録」のような処理なら通常の`SELECT`で安全ですが、「在庫残高を引き当てる」「利用上限をチェックして更新可否を分岐させる」といった**読んだ値に基づいて整合性条件を判定する処理**では、`SELECT ... FOR UPDATE`を併用するか`Serializable`のままにしておく必要があります。
+#### 他のRDB（MySQL / PostgreSQLなど）から移行する場合
+
+移行元のデータベースのデフォルト分離レベルに近い挙動となるため、`Repeatable Read`をベースとして構成することが推奨されています。既存の更新ロジックやORマッパーのトランザクション境界を大きく作り直すことなく、Spannerの共有ロックに起因する意図しないロック待ちを回避できます。
+
+#### Spanner上で新規に構築する／既存アプリに適用する場合
+
+基本はあくまで**デフォルトの`Serializable`から始める（Start with Serializable）**のが安全です。高並行時にのみ発生する複雑なタイミングバグやWrite Skew（読み取った前提が裏で覆ることによる不整合）を、アプリケーション側で意識せずに防げるためです。
+
+その上で、**以下の条件に当てはまるトランザクションに絞って、ピンポイントで`Repeatable Read`へオプトインする**使い方が最も合理的です。既存アプリ全体を無差別に一括変更すると、隠れていたWrite Skewが顕在化する恐れがあるため推奨されません。
+
+* 多くの行を参照・JOINしながら別テーブルへ書き込んでおり、`ReadOnlyTransaction`への分離が難しい
+* `SPANNER_SYS.LOCK_STATS_TOP_MINUTE`で`ReaderShared`と書き込みロック（`WriterShared` / `Exclusive`）の競合が観測されている
+
+なお、ECサイトの例に当てはめると、「参照した商品情報の転記や集計値の記録」のような処理なら通常の`SELECT`で問題ありません。一方で、「在庫残高を引き当てる」「利用上限をチェックして更新可否を分岐させる」といった**読んだ値に基づいて整合性条件を判定する処理**では、`Repeatable Read`にする場合でも`SELECT ... FOR UPDATE`を併用するか、`Serializable`のまま維持する必要があります。
 
 Repeatable Readは「他のRDBから移行するときの互換性維持機能」としてだけでなく、Read-Write競合がボトルネックとなる箇所をピンポイントに高速化するチューニング手段としても活用できます。ワークロードの特性と必要な整合性要件に合わせて使い分けてみてください。
 
